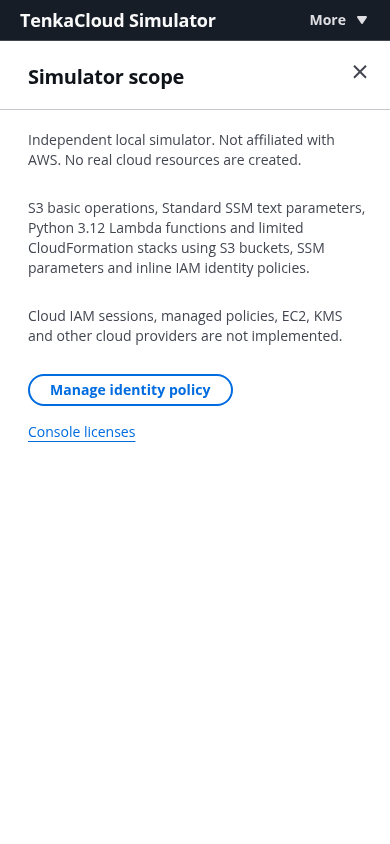
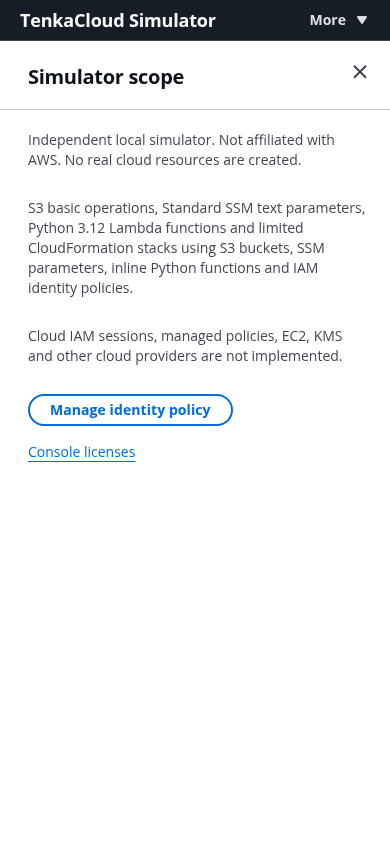
test: record inline Lambda lifecycle and regression evidence

Changed region(s): [[0.0615, 0.3081, 0.8923, 0.5545]]

diff --git a/reports/current-validation.md b/reports/current-validation.md
@@ -73,3 +73,18 @@ Ten actual-binary/SDK/browser E2E cases pass, including two authenticated indepe
 Real pinned platform f99b3d9/Challenge a749b142 still imports/deploys/operates/scores/cleans hello-world: two teams100/95, duplicate awards0, cross-team401, private output403, DELETED. Participant browser flow has external requests0/page errors0/mobile overflowfalse. Console/Scalar/platform locked npm audits each report0 vulnerabilities. Go source vulnerability scan passes against the official local OSV snapshot; canonical exact-head CI remains mandatory. Managed security scan tools remain unavailable; no managed scan is claimed.
 
 This is a foundation for the existing wp2shell problem, not its completion. Only hello-world remains selectable. Lambda CFN/SDK/HTTP bridge, API Gateway/WAF, original custom-resource lifecycle and all seven original scoring checks remain pending. No real AWS resources, credentials or external deployment are used.
+
+
+## Inline Python Lambda CloudFormation and dependency lifecycle — base main f790403
+
+AWS::Lambda::Function Code.ZipFile Python3.12/index.function provisions the same native Lambda records and real interpreter used by SDK/Cloudscape. Ref/Arn, generated/explicit names, local role/PassRole, environment, tags and bounded settings are supported. DependsOn strings/arrays combine with implicit dependencies; creation follows that graph and deletion reverses it. Invalid/cyclic dependencies fail before mutation. Managed BasicExecutionRole is metadata only, with no granted log permissions or outbound calls.
+
+Full-module race/fmt/vet/assets/modules/static build passes: statements3082/3239=95.15%, unfiltered source3984/4377=91.02%, unchanged90 floors. Eleven actual-binary/SDK/browser E2E tests pass. The new authenticated two-process case provisions the same names, runs real Python/SQLite returning42 with distinct per-team environments, executes through Cloudscape on desktop/mobile, rejects cross-team tokens401, persists across process restart and deletes all owned resources. Screenshots reports/lambda-cfn-desktop.png and reports/lambda-cfn-mobile.png are actual dummy data.
+
+Native/CFN permission tests reject missing PassRole/CreateFunction and explicitDeny before mutation; missing DeleteFunction preserves state. Fault injection after function deletion restores its code/revision and all ownership claims. Generated names, regional claims and drift reservation are tested. Lambda-prefixed claim namespaces prevent unsupported older readers from matching them as IAM identities; unknown resource kinds also fail explicitly. Database downgrade/sharing with older binaries is unsupported.
+
+Twenty-three scoped axe/keyboard/reflow states, five cross builds, three finite models and three required mutants pass. The actual pinned platform f99b3d9/Challenge a749b142 and participant browser still score100/95 for two teams, duplicate awards0, cross-team401/private outputs403/DELETED; external requests0/page errors0/mobile overflowfalse. Go source vulnerability scan passes against the official OSV snapshot; mandatory canonical CI/CodeQL/automated review remain required. Managed security scan tools are unavailable and no such scan is claimed.
+
+Only hello-world remains selectable. This does not complete wp2shell: restricted execution-role SDK/HTTP, API Gateway/WAF, original custom lifecycle and seven original scoring checks remain pending. Existing versioned evidence requires explicit cleanup, never a fake successful DeleteBucket.
+
+A fresh offline locked console install reproduces JS/CSS, complete bundle-input metadata, asset digests and original notices byte-for-byte. Console/Scalar/platform npm audits against the service each report zero vulnerabilities; no dependency change is introduced. Local dependency symlink paths were removed from the recorded build inputs before publication.

diff --git a/docs/design/0002-catalog-workloads.md b/docs/design/0002-catalog-workloads.md
@@ -1,6 +1,6 @@
 # 既存クラウド問題の段階的な対応
 
-基準はmain `e9e67dc`（PR #29の実Python Lambda foundationまでmerge済み）、Challenge `a749b142416770abee3f173673702c55df3856aa`。
+基準はmain `f790403`（PR #31のS3 CloudFormation/タグまでmerge済み）、Challenge `a749b142416770abee3f173673702c55df3856aa`。
 hello-world以外を対応済みとは表示しない。問題コード、テンプレート、採点をSimulator専用の固定応答へ置き換えない。
 
 ## 次の対象と順番
